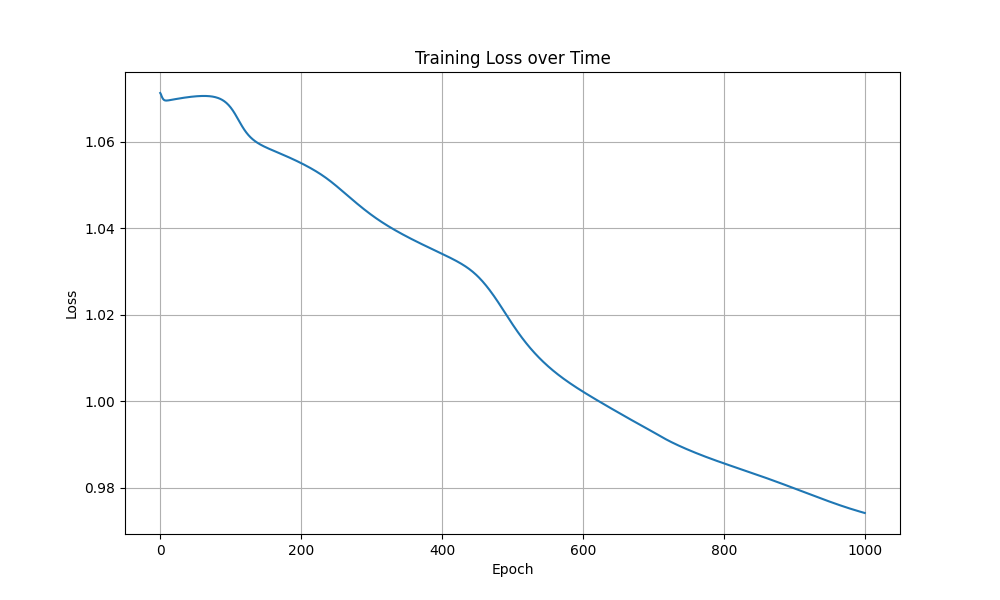
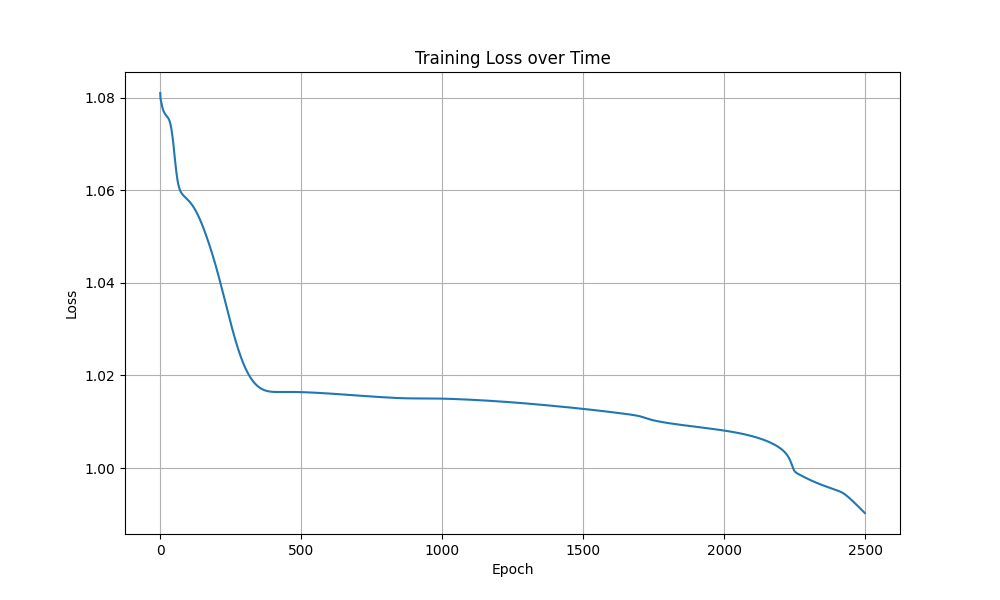
No real Change
Changed Seed Value
Tested on Both APPL and Microsoft

diff --git a/training-data/downloadData.py b/training-data/downloadData.py
@@ -3,7 +3,7 @@ import pandas as pd
 import numpy as np
 from datetime import datetime, timedelta
 
-def calculate_technical_indicators(df, ticker='AAPL'):
+def calculate_technical_indicators(df):
     """
     Calculate comprehensive technical indicators for trading analysis
     """
@@ -211,7 +211,7 @@ def calculate_technical_indicators(df, ticker='AAPL'):
     
     return df
 
-def download_market_data(ticker='AAPL', start=None, end=None, period=None, interval='5m', output_file=None):
+def download_market_data(ticker='MSFT', start=None, end=None, period=None, interval='5m', output_file=None):
     """
     Download market data with flexible parameters
     
@@ -289,7 +289,7 @@ def main():
     import argparse
     
     parser = argparse.ArgumentParser(description='Download market data with flexible parameters')
-    parser.add_argument('--ticker', type=str, default='AAPL',
+    parser.add_argument('--ticker', type=str, default='MSFT',
                         help='Stock ticker symbol (default: AAPL)')
     parser.add_argument('--start', type=str,
                         help='Start date in YYYY-MM-DD format')

diff --git a/training-data/train_test_nn.py b/training-data/train_test_nn.py
@@ -26,7 +26,7 @@ def load_and_preprocess_data(file_path):
     
     return X, y, scaler
 
-def train_neural_network(X_train, y_train, epochs=1000, learning_rate=0.01):
+def train_neural_network(X_train, y_train, epochs=2500, learning_rate=0.01):
     """
     Train the neural network
     """
@@ -94,7 +94,7 @@ def plot_loss_curve(losses):
 def main():
     # Load training data (sampled)
     print("Loading training data...")
-    X_train, y_train, scaler = load_and_preprocess_data('AAPL_5m_processed_sampled.csv')
+    X_train, y_train, scaler = load_and_preprocess_data('MSFT_5m_training.csv')
     
     # Train the model
     print("\nTraining neural network...")
@@ -105,7 +105,7 @@ def main():
     
     # Load test data (full dataset)
     print("\nLoading test data...")
-    X_test, y_test, _ = load_and_preprocess_data('AAPL_5m_processed_remaining.csv')
+    X_test, y_test, _ = load_and_preprocess_data('MSFT_5m_testing.csv')
     
     # Evaluate on training data
     print("\nEvaluating on training data...")

diff --git a/training-data/data_pipeline.py b/training-data/data_pipeline.py
@@ -5,7 +5,7 @@ from process_file import process_file_from_third_line
 from sample_data import sample_data
 import os
 
-def run_data_pipeline(ticker='AAPL', interval='5m', period='60d', sample_percentage=0.25, random_seed=42):
+def run_data_pipeline(ticker='MSFT', interval='5m', period='60d', sample_percentage=0.20, random_seed=22):
     """
     Run the complete data processing pipeline:
     1. Download market data
